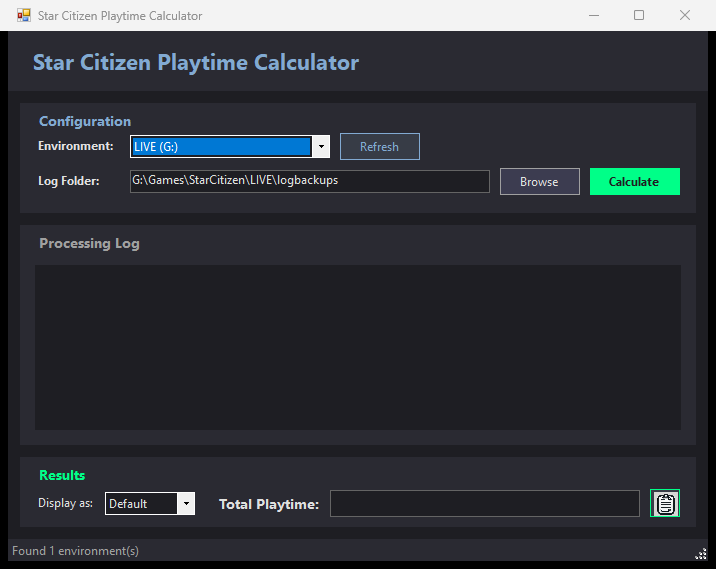
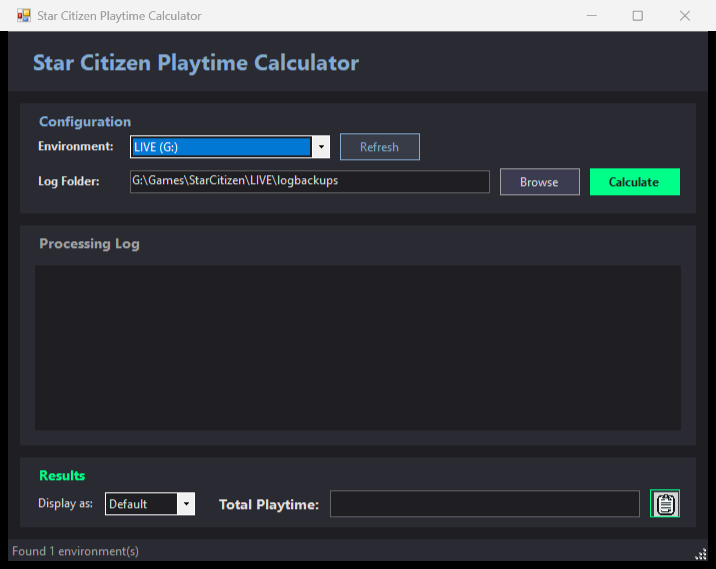
Bump in-app version label to v4.3 and refresh screenshots
- Update the hardcoded version label from v2.0 to v4.3 in both the
  Python (sc_main.py) and C# (Form1.Designer.cs) apps.
- Re-capture both screenshots to reflect the current version.

diff --git a/csharp/Form1.Designer.cs b/csharp/Form1.Designer.cs
@@ -90,7 +90,7 @@ namespace StarCitizenPlaytimeCalculator
             this.lblVersion.Font = new System.Drawing.Font("Segoe UI", 9F);
             this.lblVersion.ForeColor = textSecondary;
             this.lblVersion.Location = new System.Drawing.Point(650, 22);
-            this.lblVersion.Text = "v2.0";
+            this.lblVersion.Text = "v4.3";
 
             //
             // panelConfig

diff --git a/python/sc_main.py b/python/sc_main.py
@@ -84,7 +84,7 @@ class SCPlaytimeCalculator:
         # Version/info
         version_label = ttk.Label(
             header_frame,
-            text="v2.0",
+            text="v4.3",
             font=("Segoe UI", 10),
             bootstyle="secondary"
         )
